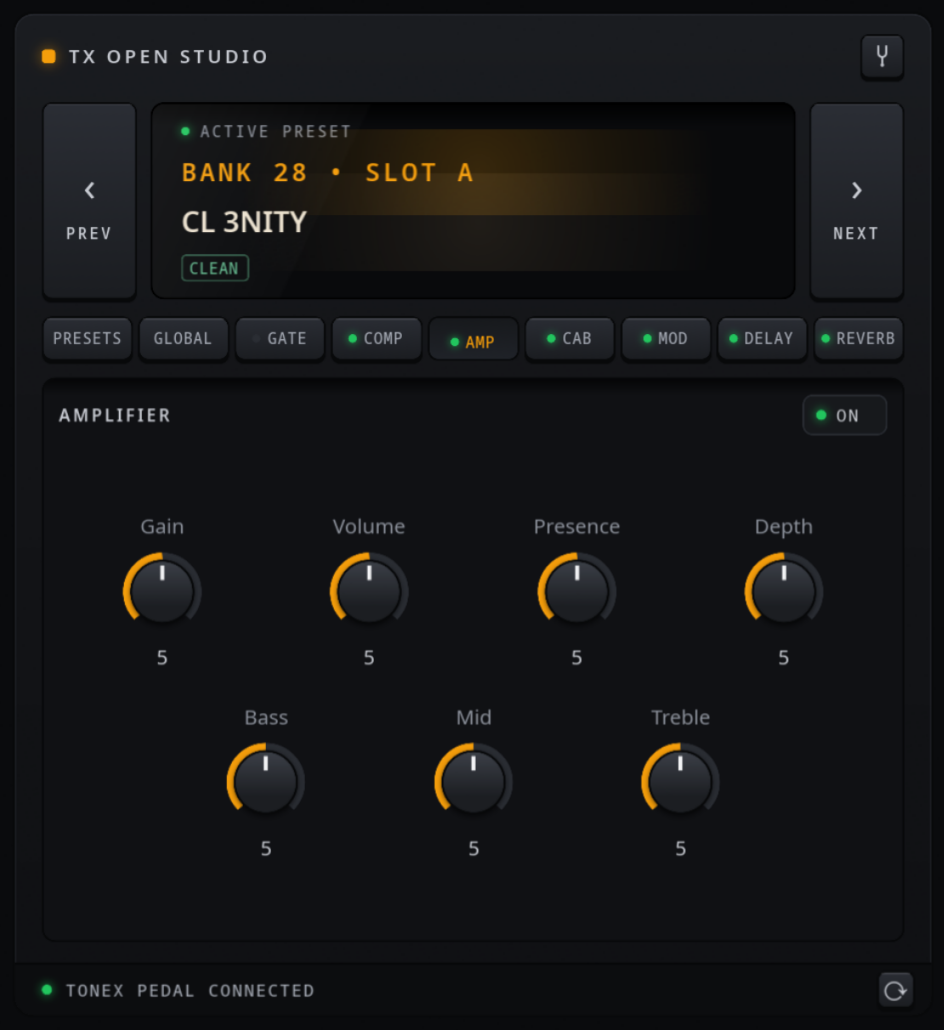
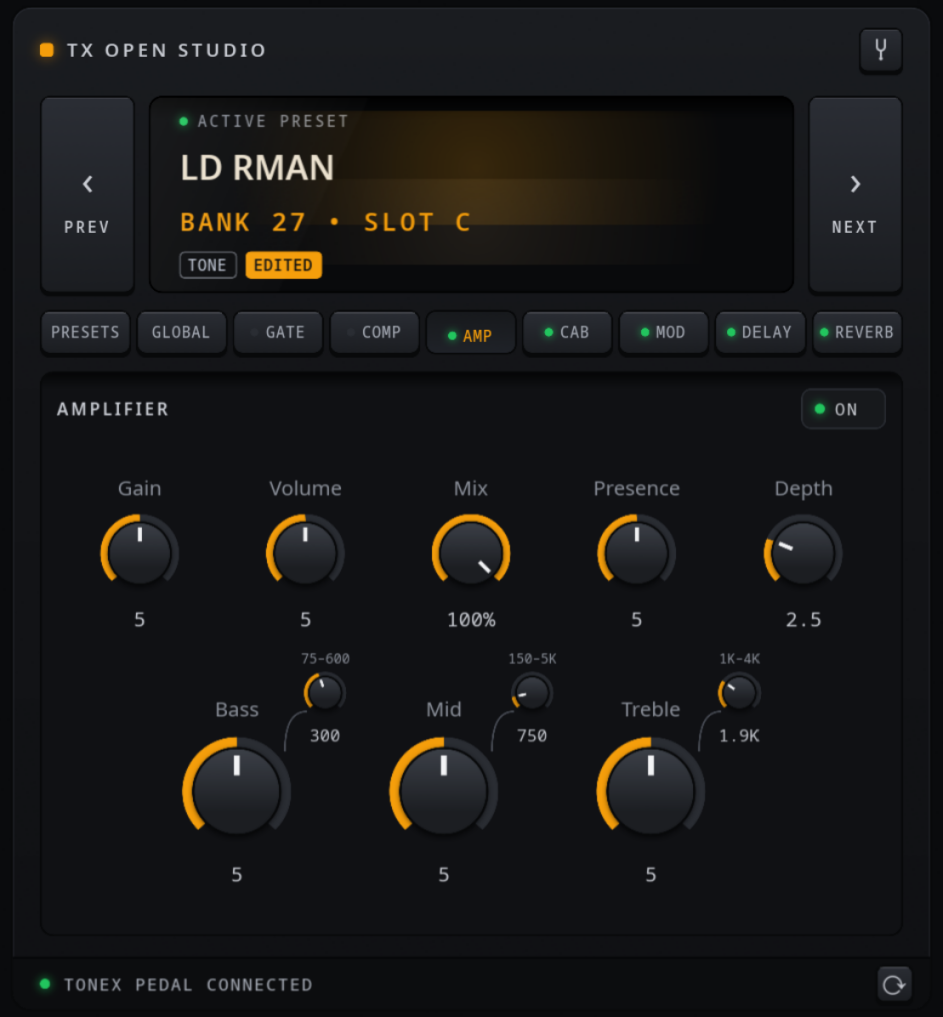
Docs for v0.2.0: fresh screenshots, GLOBAL tab, EQ/Mix, dynamic MIDI channel

diff --git a/README.md b/README.md
@@ -18,21 +18,24 @@ TX Open Studio is written in Rust with the [Slint](https://slint.dev) UI toolkit
 - Lists all 150 presets with the names and "character" tags (CLEAN, DRIVE, STOMP - OVERDRIVE, ...) read from the pedal, labelled by bank and slot the way the pedal's display shows them (for example `46C`).
 - Search field: every word you type must match the preset id, bank, slot, name or character (`46c`, `bank 14`, `clean`, `dg solo`). Escape clears the search.
 - Keyboard navigation: Left/Right step through presets. In the search field, Down moves into the list. In the list, Up/Down move the highlight and Enter selects the preset.
-- Preset switching over USB-MIDI (Bank Select CC0 + Program Change, channel 1).
+- Preset switching over USB-MIDI (Bank Select CC0 + Program Change, on whatever MIDI channel the pedal is set to — the app reads it from the pedal).
 - When you change presets with the footswitches, the app follows.
+- The list's numbering follows the pedal's **Naming** setting (Bank+Name `46C`, 0-based `PC 083`, or names only) — change it on either side and both displays switch.
 
 **Live editing (USB serial)**
 
 Changes are sent to the pedal as you turn a knob in the app. Sync goes both ways: turn a knob on the pedal and the app updates. The tabs mirror the pedal's signal chain:
 
-- **Amp**: on/off, Gain, Volume, Presence, Depth, Bass, Mid, Treble.
+- **Amp**: on/off, Gain, Volume, Mix (dry/wet of the model), Presence, Depth — and a Two-Notes-style EQ: Bass, Mid and Treble gain knobs, each with a small frequency knob (75–600 Hz / 150 Hz–5 kHz / 1–4 kHz).
 - **Noise gate**: on/off, pre/post amp, Threshold, Release, Depth.
 - **Compressor**: on/off, pre/post amp, Threshold, Gain, Attack.
 - **Cabinet**: Tone Model (the captured cab), VIR or Off; VIR cab model, resonance, two mics (condenser/dynamic/ribbon, X/Z position) and mic blend.
 - **Modulation**: on/off, pre/post, Chorus / Tremolo / Phaser / Flanger / Rotary with tempo sync and per-model controls.
 - **Delay**: on/off, pre/post, Digital / Tape, sync or time, feedback, normal/ping-pong, mix.
 - **Reverb**: on/off, pre/post, Spring 1-4 / Room / Plate, time, pre-delay, color, mix.
-- **Global**: In Trim and Master (pedal-wide settings), plus Preset Volume.
+- **Global**: the pedal's GLOBAL SETUP without the menu diving — Preset Volume, In Trim, Master and Interface (USB) levels; tuner mode (Off / Through / Muted) and reference pitch; tap tempo (button or the T key) with the pedal's **actual BPM** read back, writable as a number, and the Global/Preset tempo mode; global cab-sim bypass; display Naming; MIDI channel, MIDI Thru and MIDI Clock mode.
+
+![Global tab](docs/screenshot-global.png)
 
 Other details:
 
@@ -141,7 +144,7 @@ The desktop entry runs `tx-open-studio`, so the binary has to be on your `PATH` 
 ## Usage notes
 
 - Connect the pedal over USB and start the app. No configuration is needed. The app connects to the first MIDI output whose name contains "TONEX" and to the `/dev/ttyACM*` port whose USB vendor is IK Multimedia (`1963`).
-- The app sends MIDI on **channel 1**. On the pedal, set the MIDI channel to 1 under GLOBAL SETUP.
+- The app reads the pedal's MIDI channel over serial and sends on it, so any channel works. Before the first read (or if the serial side is down, for example without the udev rule) it falls back to **channel 1**.
 - Run with `TX_DEBUG_SERIAL=1` to log unhandled serial frames as hex on stderr. This is useful for protocol work and bug reports:
 
   ```sh

diff --git a/PROTOCOL.md b/PROTOCOL.md
@@ -454,7 +454,7 @@ Set `TX_DEBUG_SERIAL=1` to make the app log unhandled frames as hex on stderr.
 
 ## 7. MIDI control (USB-MIDI port, same cable)
 
-Channel 1. Source: `src/main.rs` (`send_preset`, `bank_and_pc`, `knob_cc`, `TUNER_CC`).
+The pedal listens on the channel set in GLOBAL SETUP (global idx 7, §4.5, default 1); the app reads it over serial and sends on it. Source: `src/main.rs` (`send_preset`, `bank_and_pc`, `knob_cc`, `TUNER_CC`).
 
 ### Preset select
 
